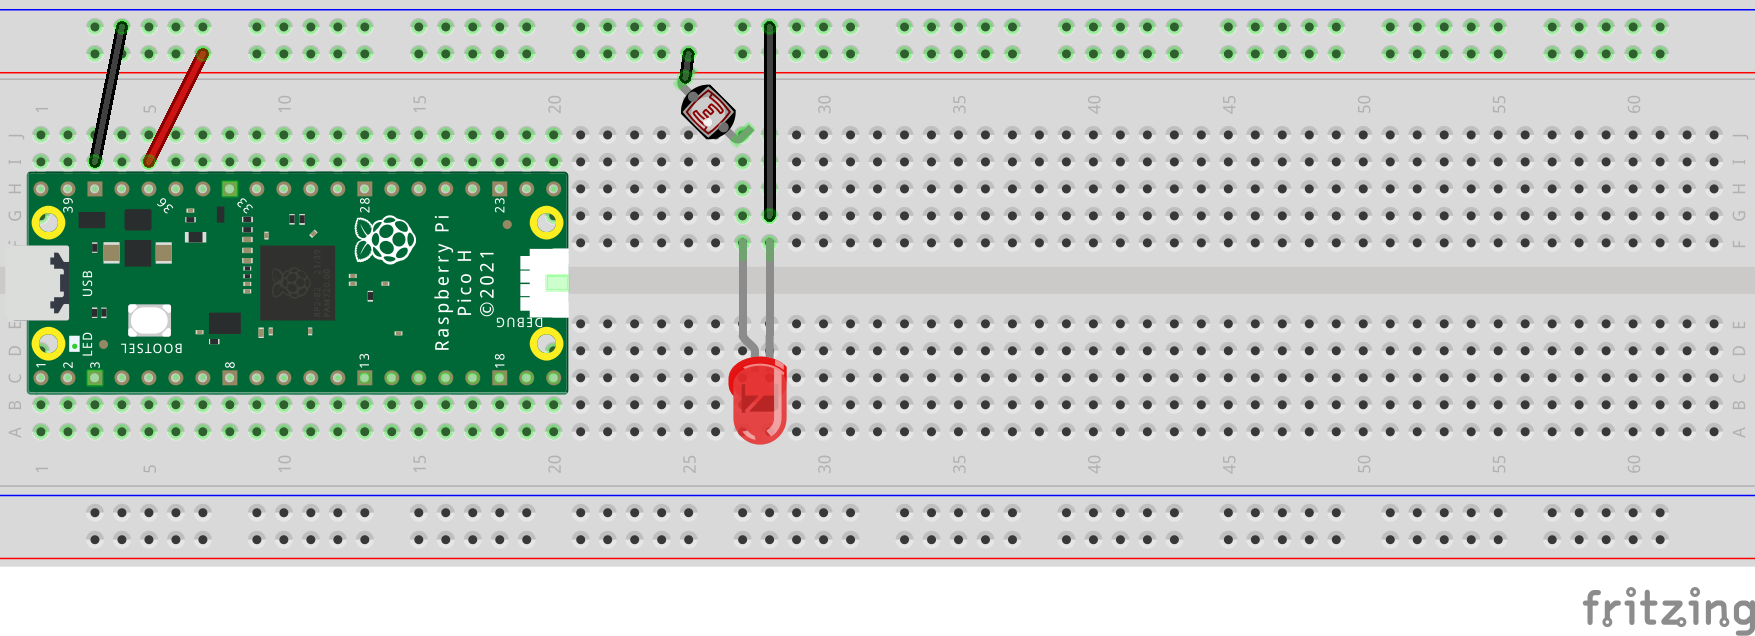
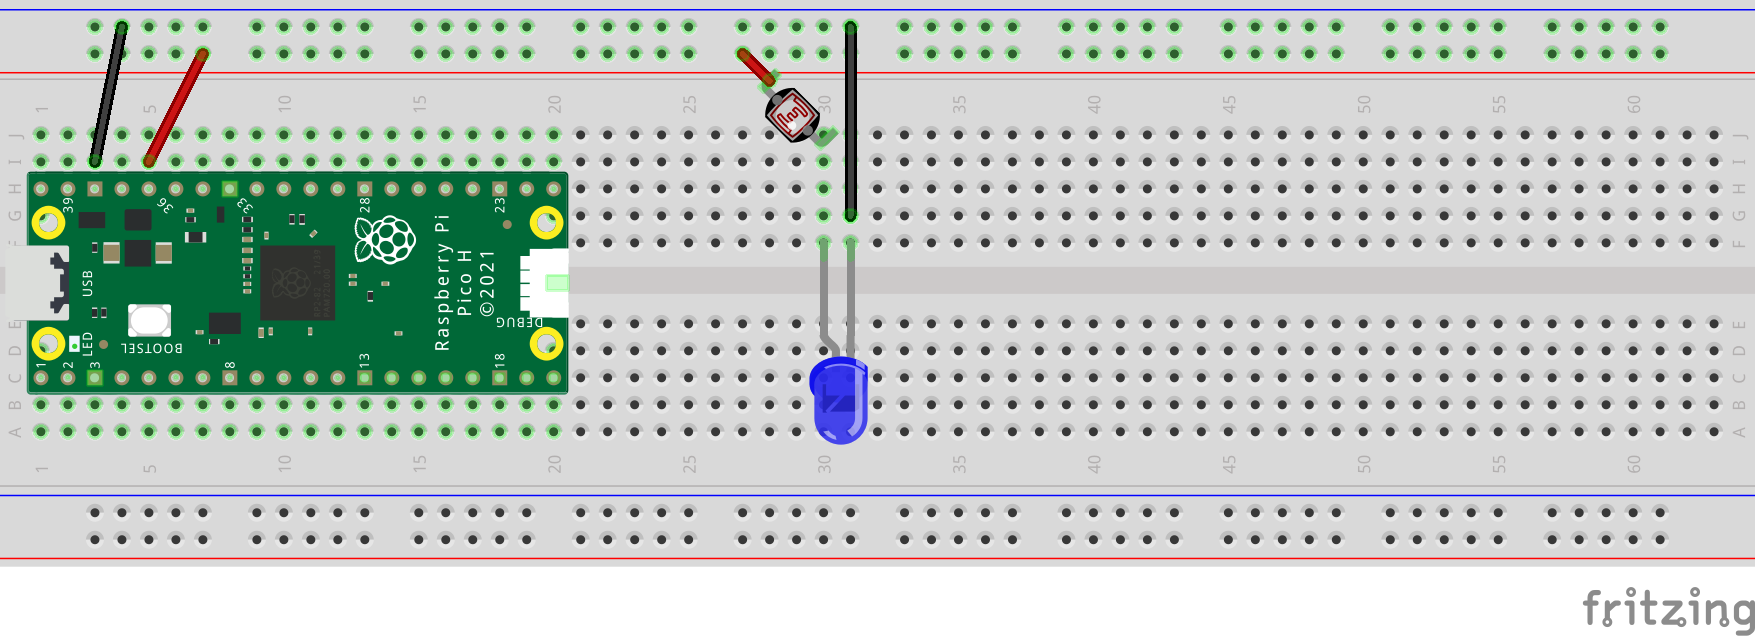
added photo_resistor lab and minor fix to resistor lab

Changed region(s): [[0.3692, 0.0299, 0.4923, 0.717]]

diff --git a/labs/photo_resistor.md b/labs/photo_resistor.md
@@ -1,0 +1,22 @@
+# Photo Resistors
+
+## Overview
+
+From the previous lab on resistors, you should understand how resistors play a valuable role in electronics by limiting or resisting the flow of electricity which we could see in our LED dimming.  The resistors we used to this point provided a fixed amount of resistence, therefore, each resistor has had a specific Ohms rating.  However, now in this lab we will work with a type of variable resistor... the Photoresistor
+
+## Photresistor
+
+A Photoresistor(pictured below) is a type of variable resistor that provides some level of resistance that varies as the amount of light shining on it varies.  That is as more light shines on the photoresistor, the less resistence it provides.  So, in a dark environment the photoresistor will provide more resistence than when light is shining on it.
+
+![Photoresistor image](/images/photeresistor.png)
+
+ ## What to do
+
+For this lab, we will simply replace the resistor in our resistor with our photoresistor.  So simple remove the resistor that connects the long side of the LED currently in column 30 to the power rail. Now add the photoresistor in place of it.  Connect one side of the photoresistor leg to Column 30 and the other side to the positive power rail.  The legs of the photoresistor can go either way.
+
+Once you have the photo resistor in place, try covering the photoresistor with your finger and see if the light dims.  Then remove your finger from the top of the photoresistor and see if the LED brightens.  
+
+Now you have a variable resistor in place!  We can use variable resistors in the future as analog input devices.  That is they are not digital where they provide a binary value, but analog in the fact they can provide a range of values that vary.  Don't worry too much about this for now, but just have fun playing with your photoresistor... for fun shine a bright light(light from your phone) on the photoresistor and see if you can get your LED really bright.  
+
+
+![Resistor Circuit](/images/3_Circuit_bb.png)
